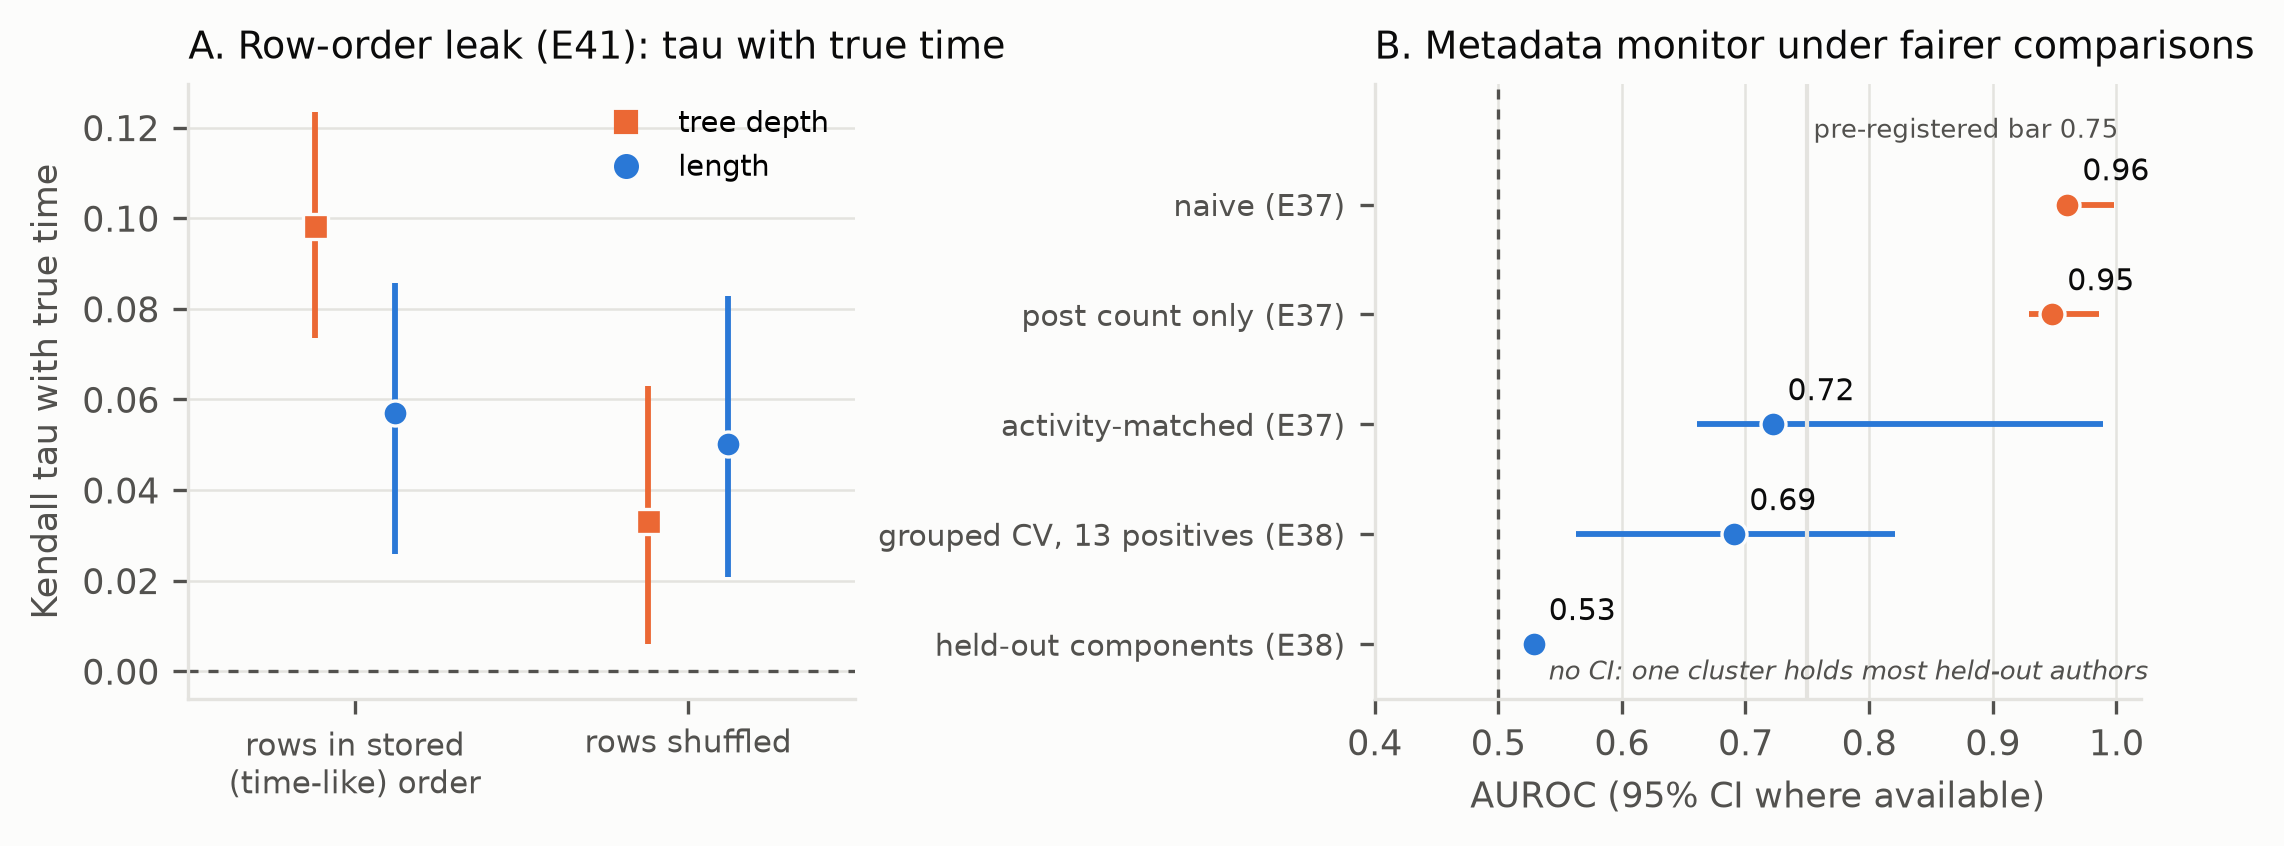
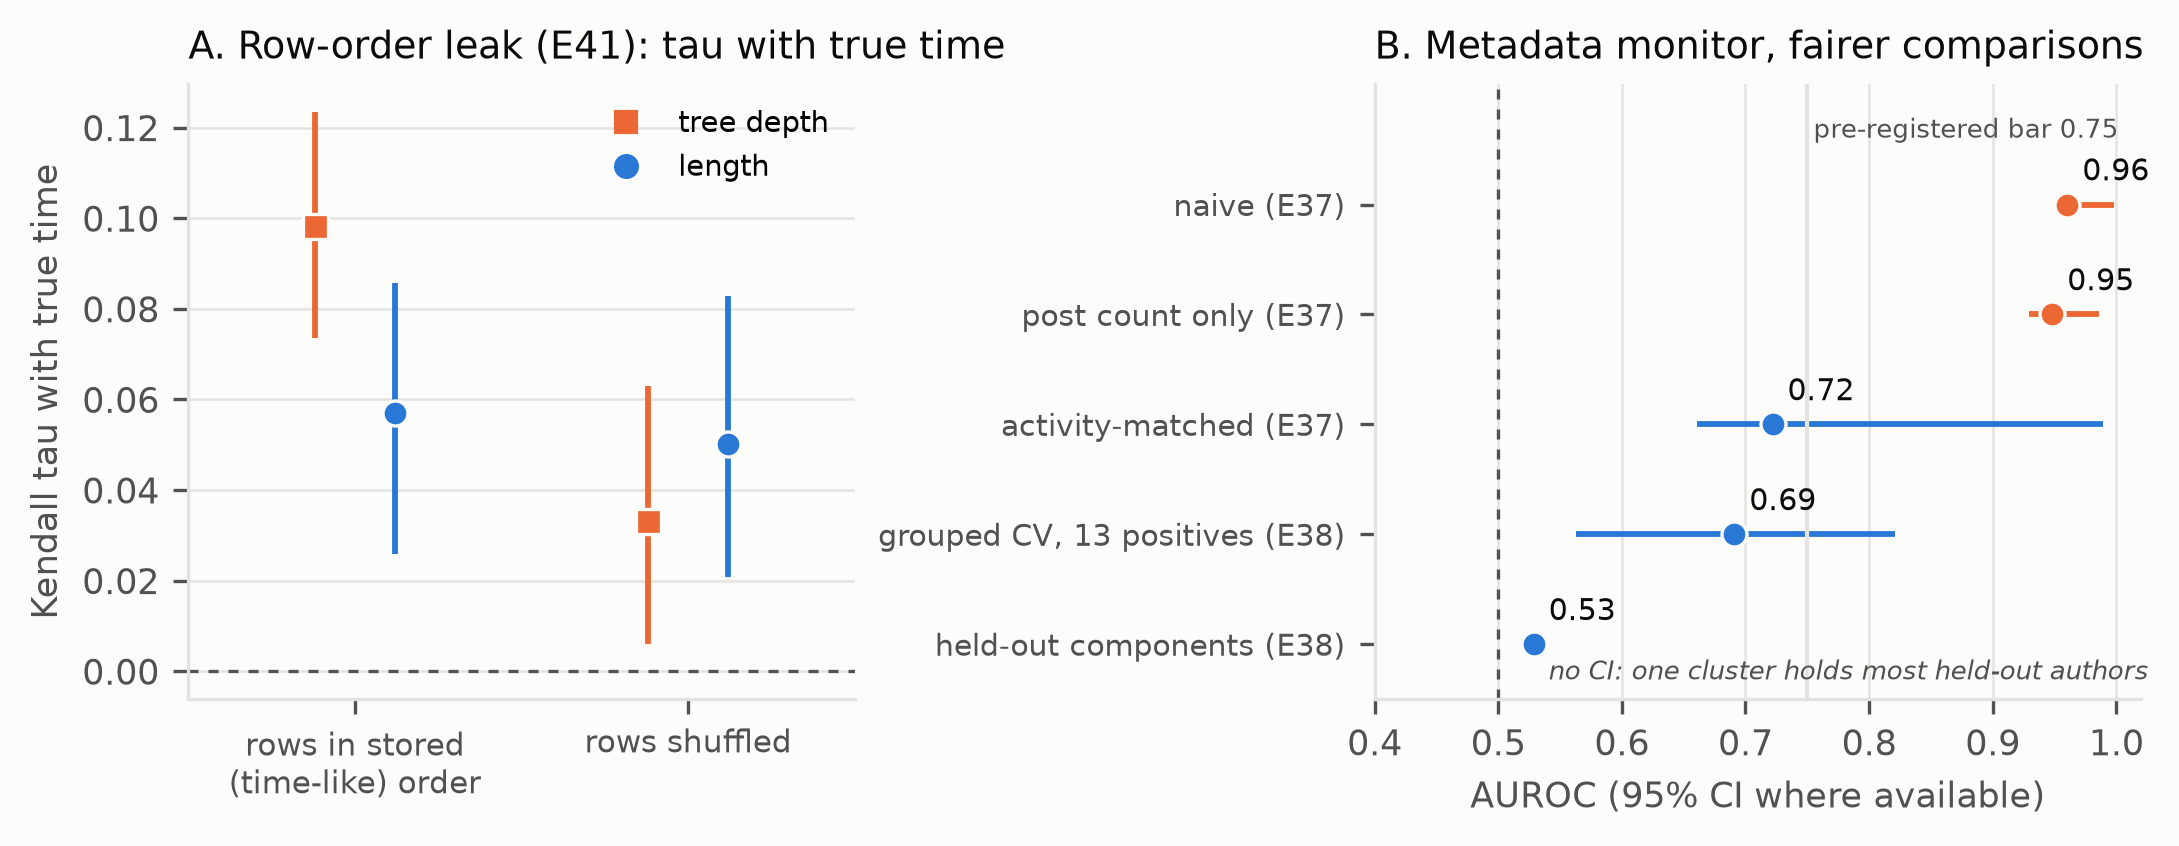
Report fixes after review: table counts and labels, appendix order, Figure 4B title

diff --git a/experiments/T01_report_numbers.py b/experiments/T01_report_numbers.py
@@ -133,6 +133,8 @@ def lineage() -> dict[str, Any]:
                 fprs_macro.append(ev[m]["null"]["macro_fpr"])
         out[f"{corp}_root_is_shortest_share"] = (r["scopes"]["all"]["components_where_root_is_shortest_text"]
                                                  / r["scopes"]["all"]["lineage_components"])
+        out[f"{corp}_root_is_shortest_counts"] = [r["scopes"]["all"]["components_where_root_is_shortest_text"],
+                                                  r["scopes"]["all"]["lineage_components"]]
         out[f"{corp}_within_share_of_edges"] = r["counts"]["within_group_verified_edges"] / r["counts"]["all_verified_edges"]
     out["E41v2_rows"] = rows
     out["null_fpr_naive_range"] = [min(fprs_naive), max(fprs_naive)]
@@ -290,14 +292,14 @@ def robustness() -> list[str]:
         out.append(f"| Jaccard {k.split('-')[0]}-0.95 (largest cluster: {100*v['counts']['largest_cluster_share_of_pairs']:.0f}% of pairs) | "
                    f"{v['counts']['components_scored']} | {f(v['methods']['b_longer_is_later'])} | {best:.3f} |")
     ts = e43["two_stage_bootstrap_0.5"]["b_longer_is_later"]
-    out.append(f"| Two-stage bootstrap: clusters, then pairs | {ts['clusters']} | {ts['macro_all_pairs']:.3f} ({ts['ci'][0]:.3f}-{ts['ci'][1]:.3f}) | - |")
+    out.append(f"| Two-stage bootstrap: clusters, then pairs | {ts['clusters']} | {ts['macro_all_pairs']:.3f} ({ts['ci'][0]:.3f}-{ts['ci'][1]:.3f}) | n/a |")
     am = e43["author_merged_0.5"]
     best = max(am["methods"][c]["macro"] for c in cues)
     out.append(f"| Clusters that share an author merged | {am['counts']['merged_units']} | {f(am['methods']['b_longer_is_later'])} | {best:.3f} |")
     sm = e44["summary"]
     for sc, lab in (("all", "all pairs"), ("within_group", "same submolt"), ("cross_group", "across submolts")):
         d, dt, ln = sm[f"{sc}.depth"], sm[f"{sc}.depth_ties_kept"], sm[f"{sc}.length"]
-        out.append(f"| Lineage, {lab}, 5 seeds (Kendall tau range) | - | {ln['min']:.3f} to {ln['max']:.3f} | "
+        out.append(f"| Lineage, {lab}, 5 seeds (Kendall tau range) | n/a | {ln['min']:.3f} to {ln['max']:.3f} | "
                    f"depth {d['min']:.3f} to {d['max']:.3f}; ties kept {dt['min']:.3f} to {dt['max']:.3f} |")
     e47, e48 = load("E47_hash64"), load("E48_order_invariance")
     if e47:
@@ -306,11 +308,11 @@ def robustness() -> list[str]:
         out.append(f"| 64-bit shingle hashes ({cd['pairs_64bit']:,} pairs) | {cd['counts_64bit']['components_scored']} | "
                    f"{f(cd['methods_64bit']['b_longer_is_later'])} | {best:.3f} |")
         la = e47["lineage"]["scopes"]["all"]
-        out.append(f"| Lineage, all pairs, 64-bit hashes (Kendall tau) | - | {la['length']['macro_tau']:.3f} | depth {la['depth']['macro_tau']:.3f} |")
+        out.append(f"| Lineage, all pairs, 64-bit hashes (Kendall tau) | n/a | {la['length']['macro_tau']:.3f} | depth {la['depth']['macro_tau']:.3f} |")
     if e48:
         dts = [v["all"]["depth_tau"] for v in e48["orders"].values()]
         lts = [v["all"]["length_tau"] for v in e48["orders"].values()]
-        out.append(f"| Lineage, all pairs, 6 input orders (Kendall tau range) | - | {min(lts):.3f} to {max(lts):.3f} | depth {min(dts):.3f} to {max(dts):.3f} |")
+        out.append(f"| Lineage, all pairs, 6 input orders (Kendall tau range) | n/a | {min(lts):.3f} to {max(lts):.3f} | depth {min(dts):.3f} to {max(dts):.3f} |")
     return out
 
 
@@ -357,7 +359,7 @@ def main() -> None:
           f"| Shingle containment | A's shingles are more fully contained in B | A has fewer distinct shingles | ties on {100*a['containment_ties_share_E31']:.1f}% of pairs |",
           f"| Insertion vs deletion | the diff A to B inserts more words than it deletes | A has fewer words | same prediction on {100*a['insdel_vs_token_count_agreement_non_ties_E32']:.0f}% of {a['non_tied_pairs_E32']:,} untied pairs |",
           f"| Extension | more of A survives as B's prefix and suffix | A has fewer words; coin flip if nothing shared | {a['extension_ties_E32']:,} of {a['pairs_scored_E32']:,} pairs tied |",
-          f"| Lineage root | A is the text most contained in the others | the shortest text is the root | root is shortest in {100*lin['moltbook_root_is_shortest_share']:.0f}% of clusters ({100*lin['collusion_wiki_root_is_shortest_share']:.0f}% on the wiki; E41-v2, all scope) |"]
+          f"| Lineage root | A is the text most contained in the others | the shortest text is the root | root is shortest in {lin['moltbook_root_is_shortest_counts'][0]} of {lin['moltbook_root_is_shortest_counts'][1]} clusters ({100*lin['moltbook_root_is_shortest_share']:.0f}%; wiki {lin['collusion_wiki_root_is_shortest_counts'][0]} of {lin['collusion_wiki_root_is_shortest_counts'][1]}, {100*lin['collusion_wiki_root_is_shortest_share']:.0f}%; E41-v2, all scope) |"]
     t2 = ["| Exp. | Type | Pre-registered claim | Outcome | Key number |", "|---|---|---|---|---|"] + \
          [f"| {r['exp']} | {r['type']} | {r['claim']} | {r['outcome']} | {r['key']} |" for r in res["ledger"]]
     t3 = robustness()

diff --git a/experiments/FIG_report.py b/experiments/FIG_report.py
@@ -286,7 +286,7 @@ def fig_leak_monitor() -> None:
     b.set_xlim(0.4, 1.02)
     b.set_ylim(y[-1] - 0.5, y[0] + 1.1)
     b.set_xlabel("AUROC (95% CI where available)", color=TEXT2)
-    b.set_title("B. Metadata monitor under fairer comparisons", loc="left", fontsize=9, color=TEXT)
+    b.set_title("B. Metadata monitor, fairer comparisons", loc="left", fontsize=9, color=TEXT)
     style(b, "x")
     fig.tight_layout()
     save(fig, "R4_leak_monitor.png")

diff --git a/results/T01_tables.md b/results/T01_tables.md
@@ -13,7 +13,7 @@ Cues
 | Shingle containment | A's shingles are more fully contained in B | A has fewer distinct shingles | ties on 52.1% of pairs |
 | Insertion vs deletion | the diff A to B inserts more words than it deletes | A has fewer words | same prediction on 100% of 1,216 untied pairs |
 | Extension | more of A survives as B's prefix and suffix | A has fewer words; coin flip if nothing shared | 870 of 1,767 pairs tied |
-| Lineage root | A is the text most contained in the others | the shortest text is the root | root is shortest in 54% of clusters (87% on the wiki; E41-v2, all scope) |
+| Lineage root | A is the text most contained in the others | the shortest text is the root | root is shortest in 264 of 489 clusters (54%; wiki 326 of 373, 87%; E41-v2, all scope) |
 
 Ledger
 
@@ -53,14 +53,14 @@ Robustness
 | Jaccard 0.6-0.95 (largest cluster: 95% of pairs) | 360 | 0.504 (0.456-0.549) | 0.520 |
 | Jaccard 0.7-0.95 (largest cluster: 97% of pairs) | 237 | 0.536 (0.484-0.592) | 0.494 |
 | Jaccard 0.8-0.95 (largest cluster: 84% of pairs) | 92 | 0.551 (0.465-0.637) | 0.538 |
-| Two-stage bootstrap: clusters, then pairs | 547 | 0.493 (0.456-0.527) | - |
+| Two-stage bootstrap: clusters, then pairs | 547 | 0.493 (0.456-0.527) | n/a |
 | Clusters that share an author merged | 113 | 0.507 (0.423-0.585) | 0.522 |
-| Lineage, all pairs, 5 seeds (Kendall tau range) | - | 0.050 to 0.062 | depth 0.002 to 0.033; ties kept 0.016 to 0.038 |
-| Lineage, same submolt, 5 seeds (Kendall tau range) | - | 0.028 to 0.045 | depth 0.012 to 0.033; ties kept 0.017 to 0.034 |
-| Lineage, across submolts, 5 seeds (Kendall tau range) | - | 0.037 to 0.091 | depth 0.002 to 0.045; ties kept 0.014 to 0.077 |
+| Lineage, all pairs, 5 seeds (Kendall tau range) | n/a | 0.050 to 0.062 | depth 0.002 to 0.033; ties kept 0.016 to 0.038 |
+| Lineage, same submolt, 5 seeds (Kendall tau range) | n/a | 0.028 to 0.045 | depth 0.012 to 0.033; ties kept 0.017 to 0.034 |
+| Lineage, across submolts, 5 seeds (Kendall tau range) | n/a | 0.037 to 0.091 | depth 0.002 to 0.045; ties kept 0.014 to 0.077 |
 | 64-bit shingle hashes (8,361,829 pairs) | 547 | 0.496 (0.461-0.533) | 0.508 |
-| Lineage, all pairs, 64-bit hashes (Kendall tau) | - | 0.050 | depth 0.033 |
-| Lineage, all pairs, 6 input orders (Kendall tau range) | - | 0.046 to 0.059 | depth 0.007 to 0.037 |
+| Lineage, all pairs, 64-bit hashes (Kendall tau) | n/a | 0.050 | depth 0.033 |
+| Lineage, all pairs, 6 input orders (Kendall tau range) | n/a | 0.046 to 0.059 | depth 0.007 to 0.037 |
 
 Parents
 

diff --git a/CHECKLIST.md b/CHECKLIST.md
@@ -28,4 +28,4 @@ Each item names the experiment in this repository that applies it. Numbers are i
 11. **Compare against simple baselines.** Every direction cue here is compared with "the
     longer text is later". (E32, E36-v2, E41-v2, E46.)
 12. **Record every experiment before it runs, including failures and deviations.**
-    (`EXPERIMENT_LOG.md`; decision ledger in the report, Table 4.)
+    (`EXPERIMENT_LOG.md`; decision ledger in the report, Table 5.)
